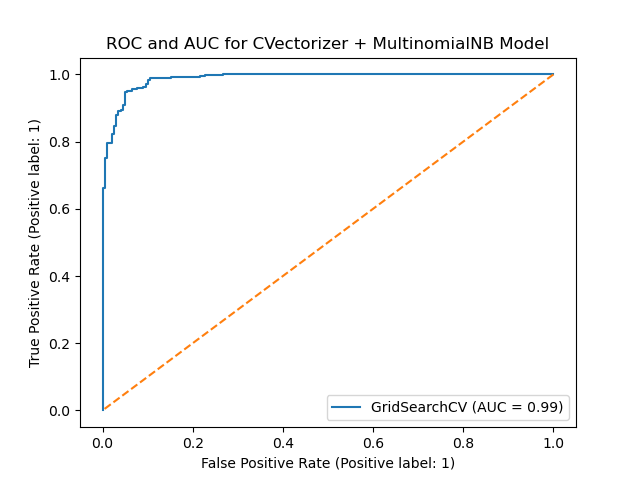
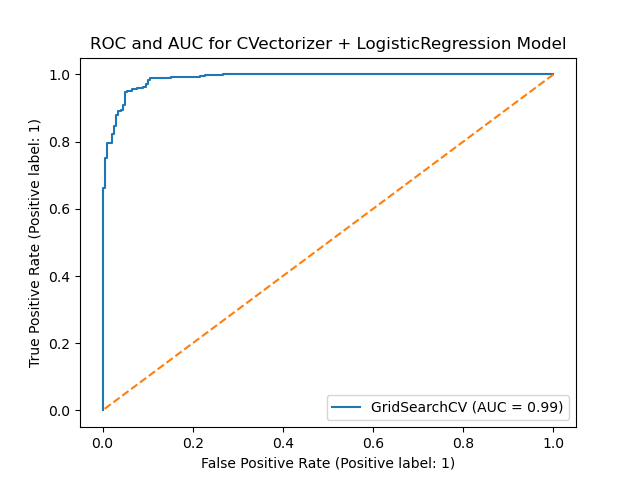
fixed image titles

Changed region(s): [[0.125, 0.0625, 0.875, 0.125]]

diff --git a/README.md b/README.md
@@ -1,205 +1,57 @@
-# ![](https://ga-dash.s3.amazonaws.com/production/assets/logo-9f88ae6c9c3871690e33280fcf557f33.png) Project 3: Web APIs & NLP
+### Introduction
 
-### Description
-
-In week five we've learned about a few different classifiers. In week six we'll learn about webscraping, APIs, and Natural Language Processing (NLP). This project will put those skills to the test.
-
-For project 3, your goal is two-fold:
-1. Using Reddit's API, you'll collect posts from two subreddits of your choosing.
-2. You'll then use various NLP techniques to process your data before training a range of classifiers to determine where a given post came from.
+Content note: This dataset contains real Subbredit posts, and some of the posts contain language that is not safe for work, crude, or offensive.
 
 
-#### About the API
+For Project 3, the objective is to collect and analyze posts from two distinct subreddits. Subreddits are specialized forums on the popular website Reddit that cater to specific topics and interests.
 
-In 2023, Reddit proposed and underwent a series of changes to its API that greatly affected the ways that users, developers, and academics interact with and access the troves of data that its community freely creates.
+The focus will be on creating a classification model to discern the origin of a subreddit post between the following two subreddits:
 
-While the cost of data storage cannot be ignored, the monetization of its API has led to a shutdown of massively popular third-party and stifled [important research](https://arxiv.org/search/?query=reddit&searchtype=all&source=header) in the social sciences (community formation/network analysis, hate speech, discourse analysis, etc.), cybersecurity (bot detection), and—importantly for us this week—the very large and diverse world of natural language processing (semantic analysis, translation, topic modeling, disambiguation, relationship extraction, etc).
+**Subreddit 1: [r/AmItheAsshole]('https://www.reddit.com/r/AmItheAsshole/')**
 
-While APIs like Pushshift that collected and stored Reddit's data from its inception are no longer accessible, we can still retrieve a limited amount of data directly from [Reddit's API](https://www.reddit.com/dev/api/). As with anytime you begin interacting with a new tool, you should familiarize yourself as much as possible with the documentation.
-
-**We will do a walkthrough of how to access and submit a simple request to the Reddit API together.**
-
----
-## Checkpoints and Advice
-
-If you aren't familiar with [reddit](https://www.reddit.com/), go check it out and browse different subreddits. Each subreddit is like a forum on a different topic. [Here's a list of subreddits by topic.](https://www.reddit.com/r/ListOfSubreddits/wiki/listofsubreddits)
-
-Data Choices
-- In your project you can classify posts, comments, titles, or some combination of those things. What you choose will partly determine how difficult your data cleaning will be and how challenging the classification task will be for your algorithms. In your presentation and executive summary, **tell us what you used**.
-- You can also include other information from posts or comments as features, but you must include some text.
-
-Subreddit Selection
-- The more similar the subreddits are, the more challenging (and interesting?!) your project will become.
-- Choose your subreddits as soon as you can and let us know your choices.  Consider the breakdown of the post count for each as well.
-
-Data collection
-- You should have a script written to retrieve data from your subreddits of choice as soon as possible. Because the API only allows us to retrieve 1000 of the most recent new and popular posts at time, this script should be written so that you can execute it from the command line at regular intervals.
-- The more data you can pull the better for your classifier. **Ideally you will want data from at least 3000 unique, non-null posts from each subreddit.**
+Description: Serving as a platform for moral introspection, r/AmItheAsshole provides a space for individuals to seek feedback on contentious issues. Users present both sides of a dilemma and solicit opinions to ascertain whether their actions align with societal norms.
 
 
----
+**Subreddit 2: [r/AskLawyers]('https://www.reddit.com/r/AskLawyers/')**
 
-### Requirements
-
-- Gather and prepare your data using the `requests` library in a Python script.
-- Script suggestions:
-    - First time it runs:
-        - Gets user input on subreddits they want to collect information from
-        - Asks user for their API credentials
-        - Stores this information in a JSON file
-    - Submits requests to API until maximum number of posts have been retrieved
-    - Writes/appends post data to a singular file
-    - Creates and updates a transaction log recording the number of posts retrieved per script execution, the datetime of its execution, and the total number of posts retrieved to date
-        - This would ensure that the script was executed over several days' time
-    - Other considerations
-        - Added functionality to drop data you are confident you will not want for EDA or modeling
-        - Added functionality to drop duplicate posts from each successful round of API requests
-        - *Advanced bonus*: schedule a process for the script to be run automatically at regular intervals to avoid having to do it manually
-- **Create and compare at least two models**. These can be any classifier of your choosing: logistic regression, Naive Bayes, KNN, Random Forest Classifier, etc.
-  - **Bonus**: use a Naive Bayes classifier
-- Try to **build a robust commit history** on GHE for this project.
-- A Jupyter Notebook with your analysis for a **peer audience of data scientists.**
-- An executive summary of your results.
-- A short presentation outlining your process and findings for a semi-technical audience, shoot for **8 minutes**.
-
-**Pro Tip:** You can find a good example executive summary [here](https://www.proposify.biz/blog/executive-summary).
-
----
-
-### Necessary Deliverables / Submission
-
-- Code and executive summary must be in a clearly commented Jupyter Notebook.
-- You must submit your slide deck.
-- Deadlines:
-    - **Materials submitted**: 9 AM MT, Friday, May 3rd
-    - **Presentation**: 930 AM MT, Friday, May 3rd
-
----
-
-## Rubric
-You should make sure that you consider and/or follow most if not all of the considerations/recommendations outlined below **while** working through your project.
-
-For Project 3 the evaluation categories are as follows:<br>
-**The Data Science Process**
-- Problem Statement
-- Data Collection
-- Data Cleaning & EDA
-- Preprocessing & Modeling
-- Evaluation and Conceptual Understanding
-- Conclusion and Recommendations
-
-**Organization and Professionalism**
-- Organization
-- Visualizations
-- Python Syntax and Control Flow
-- Presentation
-
-**Scores will be out of 30 points based on the 10 categories in the rubric.** <br>
-*3 points per section*<br>
-
-| Score | Interpretation |
-| --- | --- |
-| **0** | *Project fails to meet the minimum requirements for this item.* |
-| **1** | *Project meets the minimum requirements for this item, but falls significantly short of portfolio-ready expectations.* |
-| **2** | *Project exceeds the minimum requirements for this item, but falls short of portfolio-ready expectations.* |
-| **3** | *Project meets or exceeds portfolio-ready expectations; demonstrates a thorough understanding of every outlined consideration.* |
+Description: Offering legal guidance, r/AskLawyers encourages users to pose questions with the understanding that professional legal advice requires consultation with an attorney. Public posts and comments in this subreddit are not construed as forming an attorney-client relationship.
 
 
-### The Data Science Process
-
-**Problem Statement**
-- Is it clear what the goal of the project is?
-- What type of model will be developed?
-- How will success be evaluated?
-- Is the scope of the project appropriate?
-- Is it clear who cares about this or why this is important to investigate?
-- Does the student consider the audience and the primary and secondary stakeholders?
-
-**Data Collection**
-- Was enough data gathered to generate a significant result?
-- Was data collected that was useful and relevant to the project?
-- Was data collection and storage optimized through custom functions, pipelines, and/or automation?
-- Was thought given to the server receiving the requests such as considering number of requests per second?
-
-**Data Cleaning and EDA**
-- Are missing values imputed/handled appropriately?
-- Are distributions examined and described?
-- Are outliers identified and addressed?
-- Are appropriate summary statistics provided?
-- Are steps taken during data cleaning and EDA framed appropriately?
-- Does the student address whether or not they are likely to be able to answer their problem statement with the provided data given what they've discovered during EDA?
-
-**Preprocessing and Modeling**
-- Is text data successfully converted to a matrix representation?
-- Are methods such as stop words, stemming, and lemmatization explored?
-- Does the student properly split and/or sample the data for validation/training purposes?
-- Does the student test and evaluate a variety of models to identify a production algorithm (**AT MINIMUM:** two classification models, **BONUS:** try a Naive Bayes)?
-- Does the student defend their choice of production model relevant to the data at hand and the problem?
-- Does the student explain how the model works and evaluate its performance successes/downfalls?
-
-**Evaluation and Conceptual Understanding**
-- Does the student accurately identify and explain the baseline score?
-- Does the student select and use metrics relevant to the problem objective?
-- Does the student interpret the results of their model for purposes of inference?
-- Is domain knowledge demonstrated when interpreting results?
-- Does the student provide appropriate interpretation with regards to descriptive and inferential statistics?
-
-**Conclusion and Recommendations**
-- Does the student provide appropriate context to connect individual steps back to the overall project?
-- Is it clear how the final recommendations were reached?
-- Are the conclusions/recommendations clearly stated?
-- Does the conclusion answer the original problem statement?
-- Does the student address how findings of this research can be applied for the benefit of stakeholders?
-- Are future steps to move the project forward identified?
+The selection of these two subreddits stems from their shared purpose of providing a venue for individuals to seek input on personal matters. While one focuses on ethical considerations and societal expectations, the other centers on legal principles and potential courses of action. This juxtaposition between moral inquiry and legal inquiry presents an intriguing avenue for exploration, highlighting the intersection of public opinion and formal legal frameworks.
 
 
-### Organization and Professionalism
+Data Preparation
+After collecting data from the Reddit API, duplicates were removed, resulting in a dataset with 2149 entries. Some posts had missing content, which was replaced with the post title as a common practice in discussion forums.
 
-**Project Organization**
-- Are modules imported correctly (using appropriate aliases)?
-- Are data imported/saved using relative paths?
-- Does the README provide a good executive summary of the project?
-- Is markdown formatting used appropriately to structure notebooks?
-- Are there an appropriate amount of comments to support the code?
-- Are files & directories organized correctly?
-- Are there unnecessary files included?
-- Do files and directories have well-structured, appropriate, consistent names?
-- Is there a robust commit history?
+Text Processing and Analysis
+Top words in each subreddit were identified using CountVectorizer. Additionally, a custom preprocessor was implemented to remove URLs, emojis, and special characters. The lemmatize-tokenize function was applied to further process the text data.
+![Most Common Words in Posts (from both sources combined)](https://git.generalassemb.ly/martafuentes/project-3/blob/master/Images/bar_most_common_all.png?raw=true)
 
-**Visualizations**
-- Are sufficient visualizations provided?
-- Do plots accurately demonstrate valid relationships?
-- Are plots labeled properly?
-- Are plots interpreted appropriately?
-- Are plots formatted and scaled appropriately for inclusion in a notebook-based technical report?
+![Distribution of Post Lengths by Word Count for Each Source](https://git.generalassemb.ly/martafuentes/project-3/blob/master/Images/bar_post_len_by_word_al_aita.png?raw=true)
 
-**Python Syntax and Control Flow**
-- Is care taken to write human readable code?
-- Is the code syntactically correct (no runtime errors)?
-- Does the code generate desired results (logically correct)?
-- Does the code follows general best practices and style guidelines?
-- Are Pandas functions used appropriately?
-- Are `sklearn` and `NLTK` methods used appropriately?
+Model Building and Evaluation
+Two classification models were developed using different techniques. The first model utilized CountVectorizer and MultinomialNB, while the second model employed TfidfVectorizer and LogisticRegression. GridSearchCV was used to optimize model parameters.
 
-**Presentation**
-- Is the problem statement clearly presented?
-- Does a strong narrative run through the presentation building toward a final conclusion?
-- Are the conclusions/recommendations clearly stated?
-- Is the level of technicality appropriate for the intended audience?
-- Is the student substantially over or under time?
-- Does the student appropriately pace their presentation?
-- Does the student deliver their message with clarity and volume?
-- Are appropriate visualizations generated for the intended audience?
-- Are visualizations necessary and useful for supporting conclusions/explaining findings?
+| Model                              | Baseline Accuracy(Source 1: AmItheAssole) | Baseline Accuracy (Source 0: AskLawyers) | Best Accuracy Score (CV) | Best Accuracy Score (Training) | Best Accuracy Score (Testing) | Best Parameters Found                             |
+|------------------------------------|------------------------------------|------------------------------------|--------------------------|--------------------------------|-------------------------------|--------------------------------------------------|
+| CountVectorizer + MultinomialNB    | 0.719944                           | 0.280056                           | 0.964564                 | 0.979847                       | 0.950704                      | max_df': 0.95, 'max_features': 5000, 'min_df': 4, 'ngram_range': (1, 1) |
+| TfidVectorizer + LinearRegression | 0.719944                           | 0.280056                           | 0.934669                 | 0.964559                       | 0.947887                      | 'max_df': 0.95, 'max_features': 2000, 'min_df': 4, 'ngram_range': (1, 1) |
 
 
----
+| Metric          | CountVectorizer + MultinomialNB | TfidVectorizer + LogisticRegression |
+|-----------------|---------------------------------|-------------------------------------|
+| Specificity     | 0.889                           | 0.834                               |
+| Recall          | 0.975                           | 0.992                               |
+| Precision       | 0.958                           | 0.939                               |
+| F1 Score        | 0.966                           | 0.965                               |
 
-### Why did we choose this project for you?
-This project covers three of the biggest concepts we cover in the class: Classification Modeling, Natural Language Processing and Data Wrangling/Acquisition.
 
-Part 1 of the project focuses on **Data wrangling/gathering/acquisition**. This is a very important skill as not all the data you will need will be in clean CSVs or a single table in SQL.  There is a good chance that wherever you land you will have to gather some data from some unstructured/semi-structured sources; when possible, requesting information from an API, but often scraping it because they don't have an API (or it's terribly documented).
+Comparison and Conclusion
+Both models performed well, with minor differences in specific metrics. The F1 scores were nearly identical, indicating high precision and recall. Additionally, both models achieved high accuracy scores, suggesting their effectiveness in classifying text data.
+![ROC and AUC for CVectorizer + MultinomialNB Model](https://git.generalassemb.ly/martafuentes/project-3/blob/master/Images/roc_auc_cvec_lr.png?raw=true)
 
-Part 2 of the project focuses on **Natural Language Processing** and converting standard text data (like Titles and Comments) into a format that allows us to analyze it and use it in modeling.
+![
+The AUC for the ROC curve was 0.99 for both models, indicating their ability to distinguish posts from the target source.
 
-Part 3 of the project focuses on **Classification Modeling**.  Given that project 2 was a regression focused problem, we needed to give you a classification focused problem to practice the various models, means of assessment and preprocessing associated with classification.   
+In conclusion, whether using CountVectorizer with MultinomialNB or TfidfVectorizer with LogisticRegression, the models demonstrated strong performance in predicting the source of Reddit posts.
+
